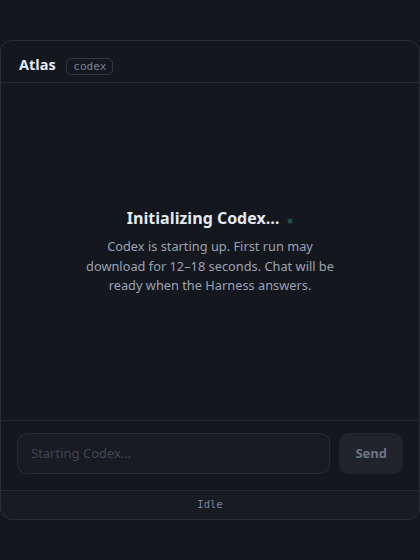
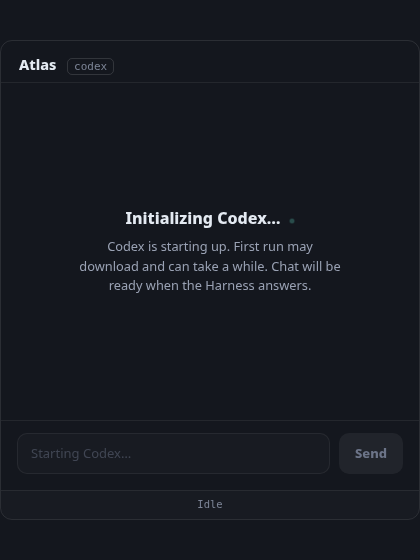
Refresh initializing demo note and screenshot for softer copy

diff --git a/docs/design/harness-initializing-demo.html b/docs/design/harness-initializing-demo.html
@@ -3,7 +3,7 @@
   Demo for omesser/fidget#1161: Keep Chat clear and responsive while a Harness initializes.
 
   Shows the landing state during Harness initialization with:
-  - Updated copy mentioning first-run download time
+  - Updated copy: first-run may download and can take a while (no fixed duration)
   - Pulsing progress indicator showing ongoing initialization
 
   Self-contained demo. Open directly in a browser to see the initializing state.
